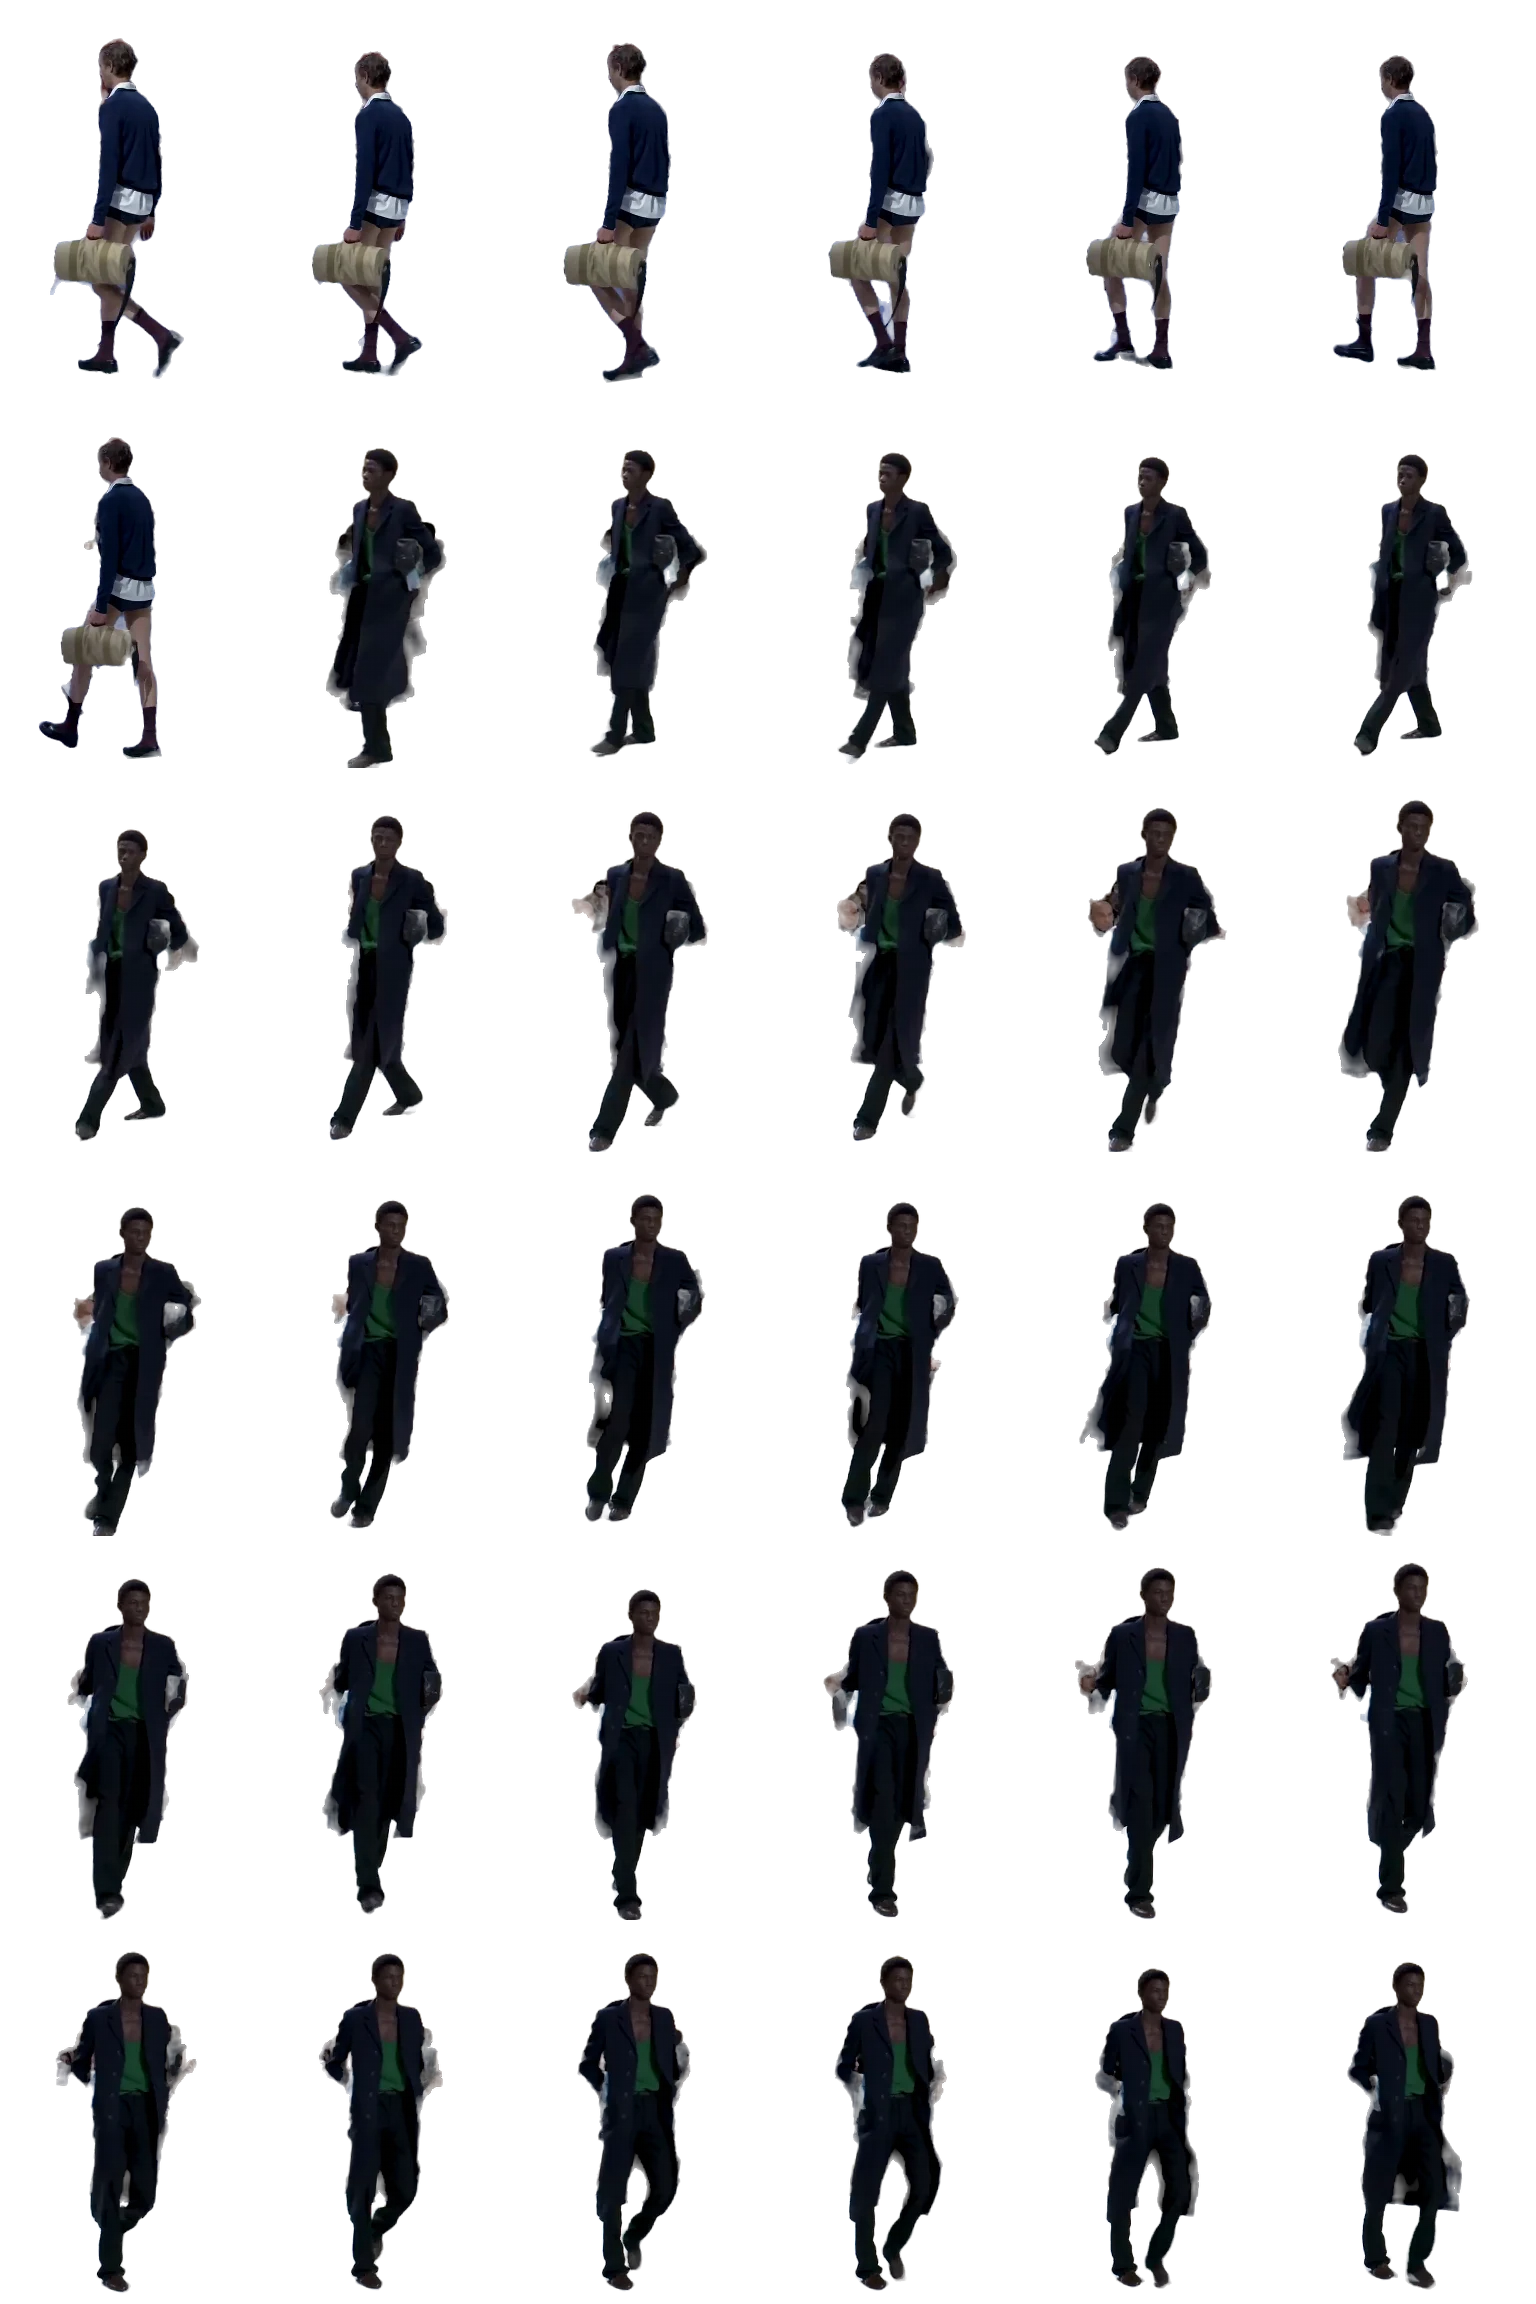
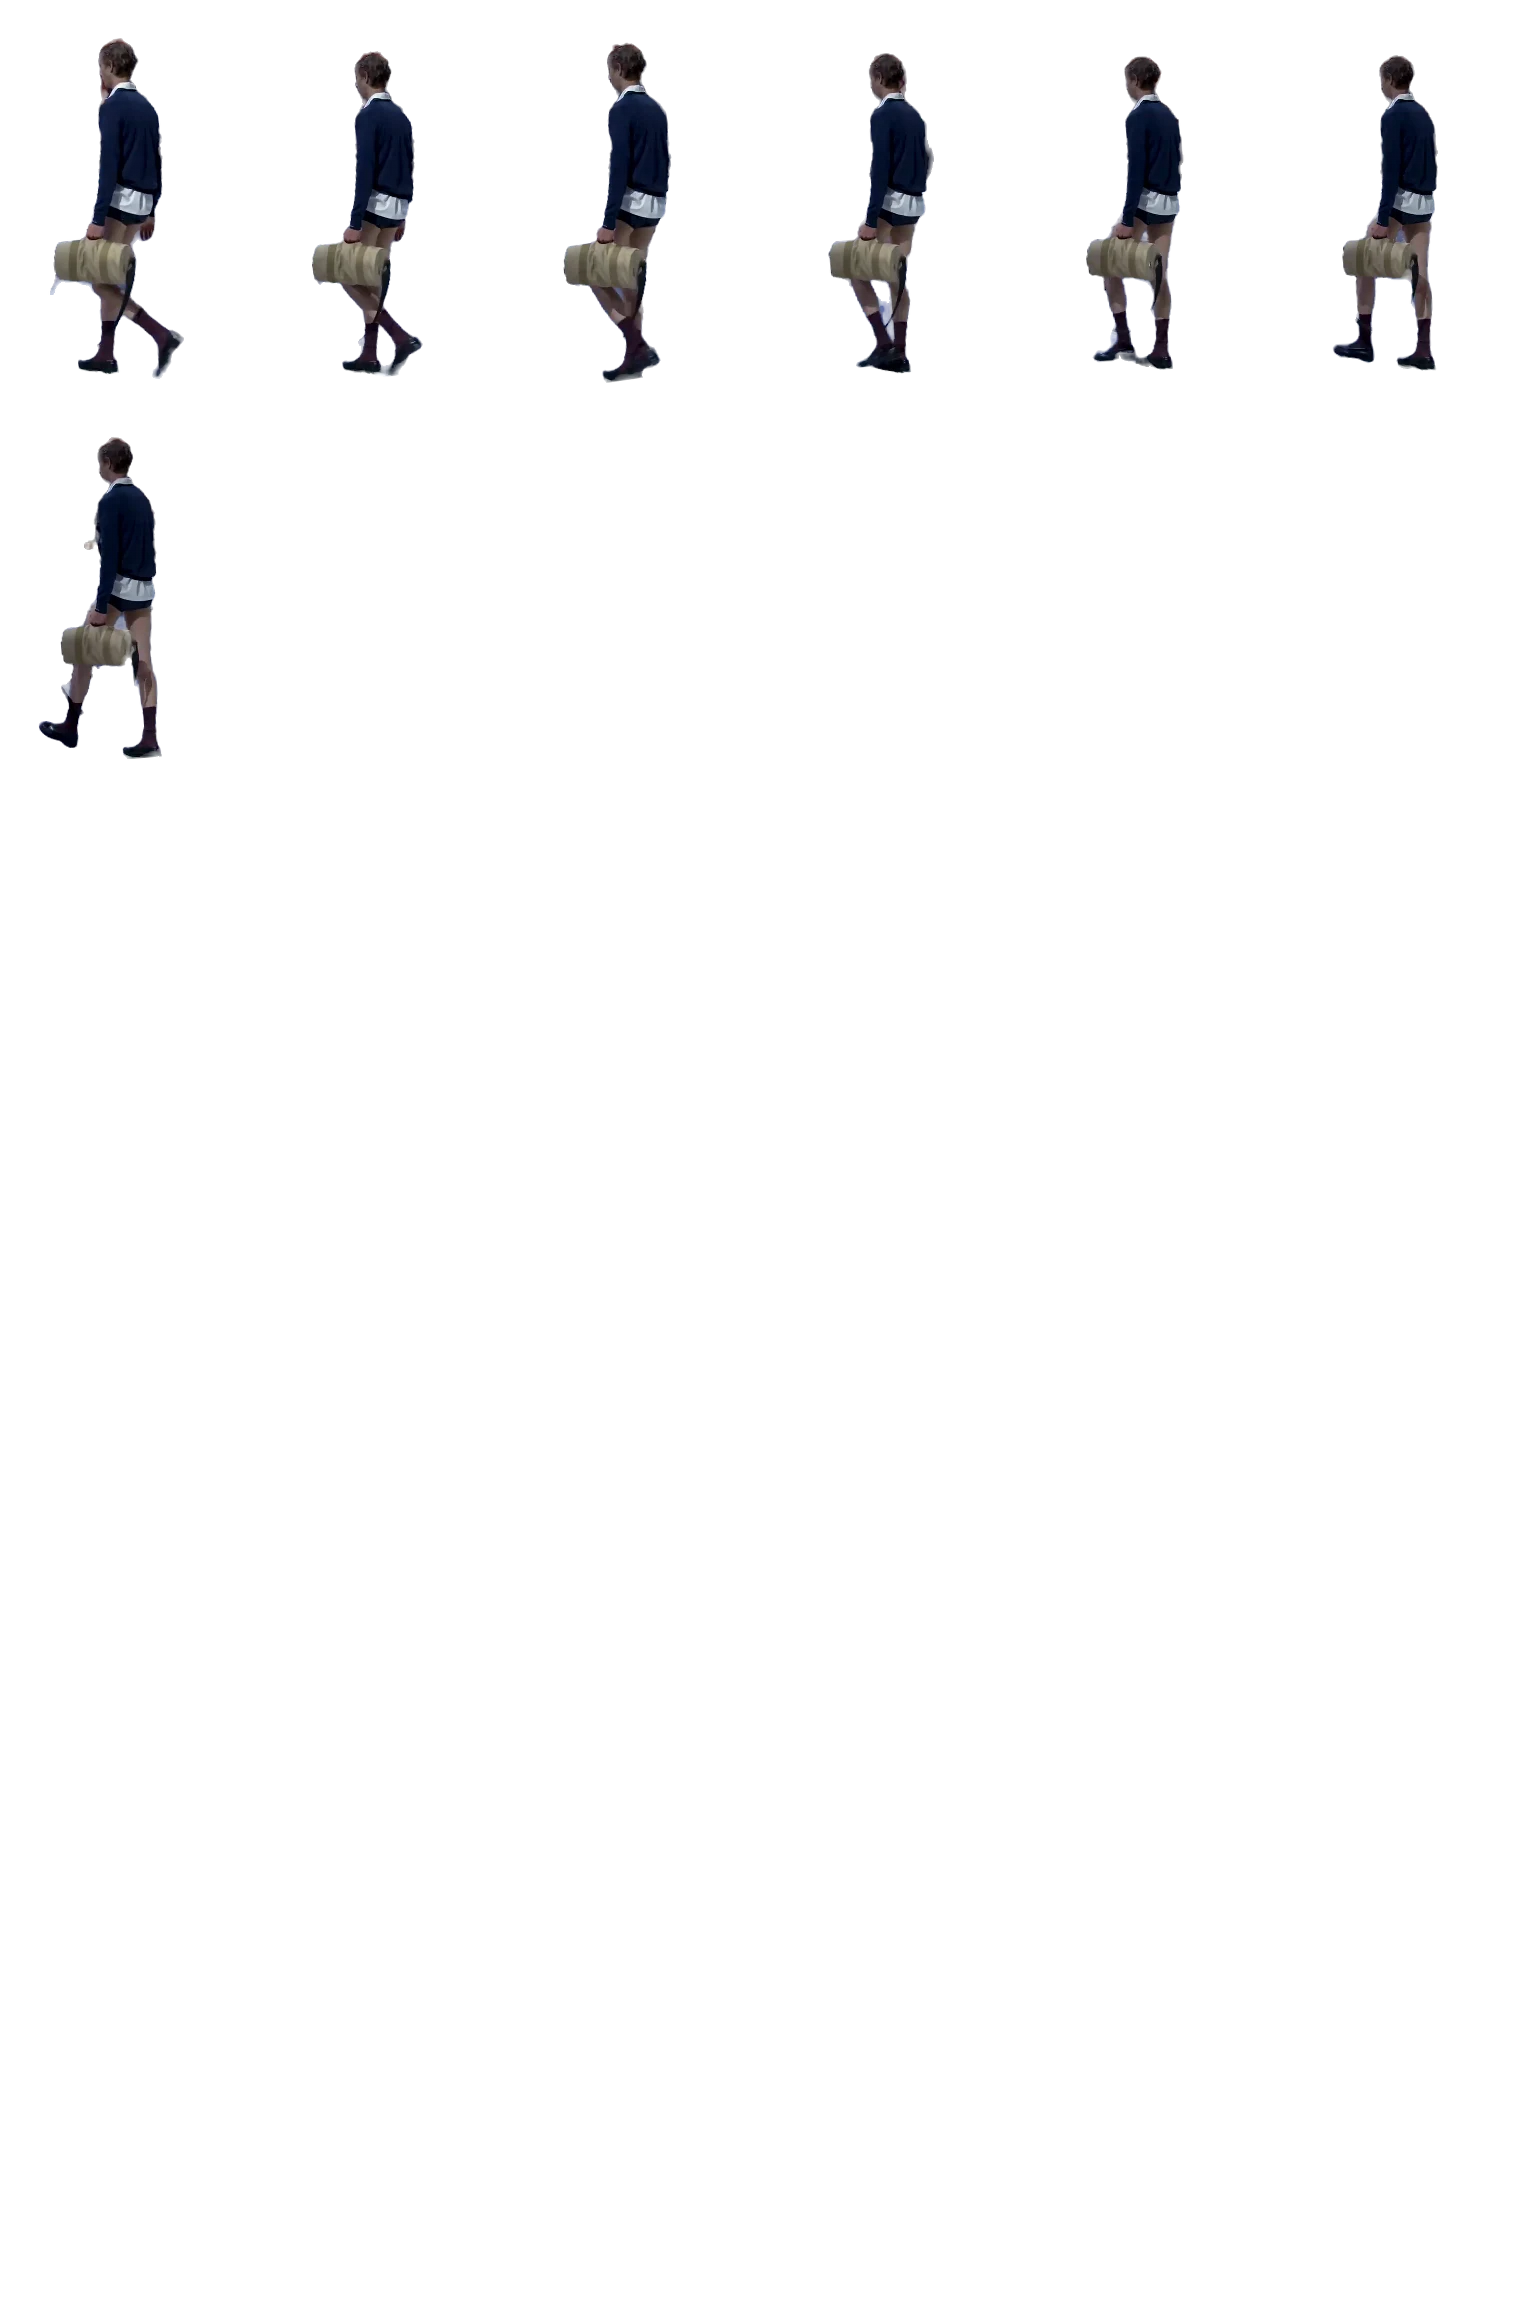
fix(runway-walk): exclude inconsistent turning poses

diff --git a/pages/runway-walk/angle.html b/pages/runway-walk/angle.html
@@ -23,7 +23,7 @@
     <div id="presets" class="presets" aria-label="저장한 방향"></div>
     <div class="actions"><button id="save" disabled>이 방향 저장 +</button><button id="play" aria-label="일시정지" disabled>Ⅱ</button><button id="reset" disabled>정면으로</button></div>
     <p class="note">실제 촬영된 방향에 가까운 몸이 걸음을 이어받습니다.</p>
-    <div class="credits"><a href="https://www.youtube.com/watch?v=qcE5NeDUvIk" target="_blank" rel="noreferrer">Louis Vuitton SS27 ↗</a><a href="https://www.youtube.com/watch?v=SAjtxnyXu8U" target="_blank" rel="noreferrer">Prada SS26 ↗</a><a href="https://www.youtube.com/watch?v=J1GCDcbYIRI" target="_blank" rel="noreferrer">Prada FW26 ↗</a><a href="./?mode=color3">영상 시안 ↗</a></div>
+    <div class="credits"><a href="https://www.youtube.com/watch?v=qcE5NeDUvIk" target="_blank" rel="noreferrer">Louis Vuitton SS27 ↗</a><a href="https://www.youtube.com/watch?v=SAjtxnyXu8U" target="_blank" rel="noreferrer">Prada SS26 ↗</a><a href="./?mode=color3">영상 시안 ↗</a></div>
   </footer>
   <script type="module" src="./angle.ts"></script>
 </body>

diff --git a/pages/runway-walk/angle-match.ts b/pages/runway-walk/angle-match.ts
@@ -18,7 +18,7 @@ export function chooseBlock(blocks: readonly AngleBlock[], yaw: number, phase: n
   const nearest = Math.min(...blocks.map(b => Math.abs(b.yaw - yaw)));
   let best = blocks[0], bestCost = Infinity;
   for (const block of blocks) {
-    if (Math.abs(block.yaw - yaw) > nearest + 15) continue;
+    if (Math.abs(block.yaw - yaw) > nearest + 5) continue;
     const cost = phaseDistance(block.phase, phase) * 5 + Math.abs(block.yaw - yaw) / 180 + (recent.includes(block.clip) ? 0.16 : 0);
     if (cost < bestCost) { best = block; bestCost = cost; }
   }

diff --git a/pages/runway-walk/angle-match.test.ts b/pages/runway-walk/angle-match.test.ts
@@ -33,3 +33,11 @@ test('exported source atlas offers valid consecutive blocks for every stored dir
     expect(frame.phase).toBeLessThan(1);
   }
 });
+
+test('a matching gait cannot pull a frontal person into a diagonal direction', () => {
+  const blocks = [
+    { start: 0, yaw: -45, phase: 0.5, clip: 'diagonal' },
+    { start: 3, yaw: 0, phase: 0, clip: 'frontal' },
+  ];
+  expect(chooseBlock(blocks,-30,0).clip).toBe('diagonal');
+});

diff --git a/scripts/runway-walk/angles.py b/scripts/runway-walk/angles.py
@@ -83,6 +83,6 @@ for start in range(0,len(all_rows),36):
   im=Image.open(row['path']).convert('RGBA');sheet.paste(im,((i%6)*256,(i//6)*384))
   frames.append({k:row[k] for k in ['clip','source','sourceFrame','yaw','phase']}|{'atlas':atlas,'tile':i})
  sheet.save(media/filename,'WEBP',quality=88,method=4);atlases.append(filename)
-manifest={'fps':25,'holdFrames':3,'tileWidth':256,'tileHeight':384,'columns':6,'angleType':'approximate camera-relative shot annotation','sources':[{'id':'lv','url':'https://www.youtube.com/watch?v=qcE5NeDUvIk','title':"Louis Vuitton Men's Spring-Summer 2027"},{'id':'prada','url':'https://www.youtube.com/watch?v=SAjtxnyXu8U','title':'Prada Spring/Summer 2026 Menswear'},{'id':'fw','url':'https://www.youtube.com/watch?v=J1GCDcbYIRI','title':'Prada Fall/Winter 2026 Menswear'}],'clips':clip_info,'atlases':atlases,'frames':frames}
+manifest={'fps':25,'holdFrames':3,'tileWidth':256,'tileHeight':384,'columns':6,'angleType':'approximate camera-relative shot annotation','sources':[s for s in [{'id':'lv','url':'https://www.youtube.com/watch?v=qcE5NeDUvIk','title':"Louis Vuitton Men's Spring-Summer 2027"},{'id':'prada','url':'https://www.youtube.com/watch?v=SAjtxnyXu8U','title':'Prada Spring/Summer 2026 Menswear'},{'id':'fw','url':'https://www.youtube.com/watch?v=J1GCDcbYIRI','title':'Prada Fall/Winter 2026 Menswear'}] if s['id'] in {r['source'] for r in all_rows}],'clips':clip_info,'atlases':atlases,'frames':frames}
 (args.output/'angles.json').write_text(json.dumps(manifest,separators=(',',':'))+'\n')
 print('Exported',len(frames),'frames /',len(atlases),'atlases',flush=True)

diff --git a/pages/runway-walk/README.md b/pages/runway-walk/README.md
@@ -35,13 +35,13 @@
 
 `/runway-walk/angle.html`에서 인물을 좌우로 드래그하거나 방향 슬라이더·방향키로 몸의 방향을 고른다. 손을 놓으면 선택 방향을 유지한다. `이 방향 저장 +`는 최대 다섯 방향을 이 브라우저의 로컬 저장소에 보관하며, 다시 눌러 불러올 수 있다. 선택 방향도 새로고침 뒤 복원한다. 저장소를 사용할 수 없어도 조작과 재생은 동작한다.
 
-루이비통 SS27, [Prada SS26](https://www.youtube.com/watch?v=SAjtxnyXu8U), [Prada FW26](https://www.youtube.com/watch?v=J1GCDcbYIRI)의 실제 프레임을 사용한다. 현재 9개 구간의 396프레임을 256×384 투명 타일, 11장의 WebP 아틀라스에 보관한다. 미디어 전송량은 약 5.4MB다. 배경은 따뜻한 회색이며 인물의 원래 의상 색은 유지한다.
+루이비통 SS27, [Prada SS26](https://www.youtube.com/watch?v=SAjtxnyXu8U)의 실제 프레임을 사용한다. 현재 8개 구간의 331프레임을 256×384 투명 타일, 10장의 WebP 아틀라스에 보관한다. 미디어 전송량은 약 4.7MB다. 배경은 따뜻한 회색이며 인물의 원래 의상 색은 유지한다.
 
-`angle-shots.json`의 방향은 촬영 화면을 직접 보고 붙인 카메라 기준 근사값이다. 돌아서는 구간은 시간별 방향 키를 보간해 **각 원본 프레임의 방향을 저장**한다. 카메라 보정으로 측정한 정확한 각도가 아니다. 선택 가능한 범위는 연속 3프레임을 확보한 약 왼쪽 75°부터 정면까지다. 반대 방향 후보는 발이 원본 밖으로 잘려 제외했다. 촬영된 방향이 드문 대역은 같은 사람을 재사용한다. 전방위 회전이나 동일 인물의 다중 시점 재구성은 아니다. 좌우 반전·몸 변형·생성 프레임을 사용하지 않는다.
+`angle-shots.json`의 방향은 촬영 화면을 직접 보고 붙인 카메라 기준 근사값이다. **각 원본 프레임에 구간의 방향을 저장**한다. 몸을 돌리는 도중 방향 표시와 실제 자세가 맞지 않았던 초록 상의·검은 코트 구간은 전체 제외했다. 카메라 보정으로 측정한 정확한 각도가 아니다. 선택 가능한 범위는 연속 3프레임을 확보한 약 왼쪽 75°부터 정면까지다. 반대 방향 후보는 발이 원본 밖으로 잘려 제외했다. 촬영된 방향이 드문 대역은 같은 사람을 재사용한다. 전방위 회전이나 동일 인물의 다중 시점 재구성은 아니다. 좌우 반전·몸 변형·생성 프레임을 사용하지 않는다.
 
-보행 위상은 MediaPipe의 3D 발목 차이를 몸의 앞 방향에 투영하고 주기 함수를 맞춰 추정한다. 재생 시 보행 시계는 방향과 독립적으로 계속 진행한다. 3프레임 경계에서 가까운 방향 대역(최근접 각도 오차 + 15° 이내), 현재 위상, 최근 인물 사용을 함께 비교한다. 선택한 구간 안에서는 원본의 실제 연속 3프레임을 순서대로 보여준다. 같은 방향의 인물이 부족하면 같은 사람을 다시 사용한다. 인물·카메라마다 자세 추정과 원근이 달라 연결에 점프가 남을 수 있다.
+보행 위상은 MediaPipe의 3D 발목 차이를 몸의 앞 방향에 투영하고 주기 함수를 맞춰 추정한다. 재생 시 보행 시계는 방향과 독립적으로 계속 진행한다. 3프레임 경계에서 가까운 방향 대역(최근접 각도 오차 + 5° 이내), 현재 위상, 최근 인물 사용을 함께 비교한다. 선택한 구간 안에서는 원본의 실제 연속 3프레임을 순서대로 보여준다. 같은 방향의 인물이 부족하면 같은 사람을 다시 사용한다. 인물·카메라마다 자세 추정과 원근이 달라 연결에 점프가 남을 수 있다.
 
-머리·발이 원본 밖으로 잘린 후보와 너무 짧은 구간은 제외한다. 인물 전체를 같은 비율로 이동·확대해 골반 가로 위치와 발밑 높이를 맞추고, 머리가 타일 밖으로 나가면 확대를 제한한다. 알파를 곱한 상태에서 리샘플링한 뒤 투명 타일로 저장한다. 브라우저는 시작할 때 아틀라스를 읽어 Canvas에 25fps로 그린다. 초기 로딩을 줄인 데스크톱 시안이며, 디코딩된 아틀라스 메모리는 약 156MB다.
+머리·발이 원본 밖으로 잘린 후보와 너무 짧은 구간은 제외한다. 인물 전체를 같은 비율로 이동·확대해 골반 가로 위치와 발밑 높이를 맞추고, 머리가 타일 밖으로 나가면 확대를 제한한다. 알파를 곱한 상태에서 리샘플링한 뒤 투명 타일로 저장한다. 브라우저는 시작할 때 아틀라스를 읽어 Canvas에 25fps로 그린다. 초기 로딩을 줄인 데스크톱 시안이며, 디코딩된 아틀라스 메모리는 약 142MB다.
 
 - `angles.json`: 출처, 구간, 원본 프레임 번호, 근사 방향, 보행 위상, 아틀라스·타일 인덱스.
 - `angle-match.ts`: 실제 연속 구간 검증과 방향·위상 선택. `angle-match.test.ts`는 원본 프레임 누락·구간 경계 및 실제 매니페스트 선택을 검증한다.
@@ -51,7 +51,6 @@
 
 ```sh
 uv tool run --from 'yt-dlp[default]' yt-dlp --no-playlist -f 136 -o .cache/runway-walk/prada-ss26.mp4 'https://www.youtube.com/watch?v=SAjtxnyXu8U'
-uv tool run --from 'yt-dlp[default]' yt-dlp --no-playlist -f 136 -o .cache/runway-walk/prada-fw26.mp4 'https://www.youtube.com/watch?v=J1GCDcbYIRI'
 .cache/runway-walk/venv/bin/python scripts/runway-walk/angles.py --cache .cache/runway-walk --output pages/runway-walk
 ```
 
